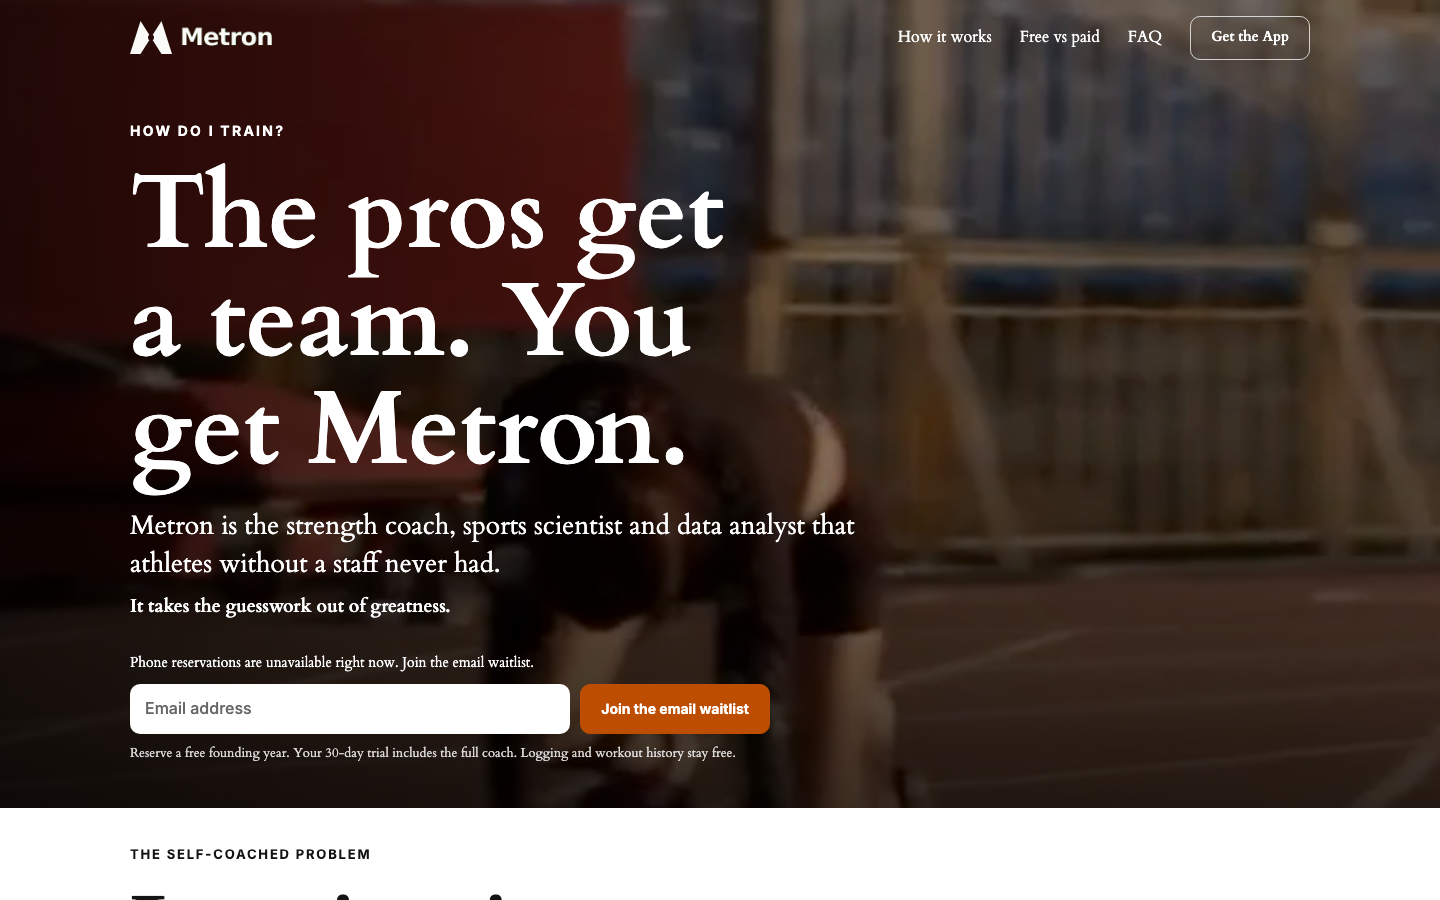
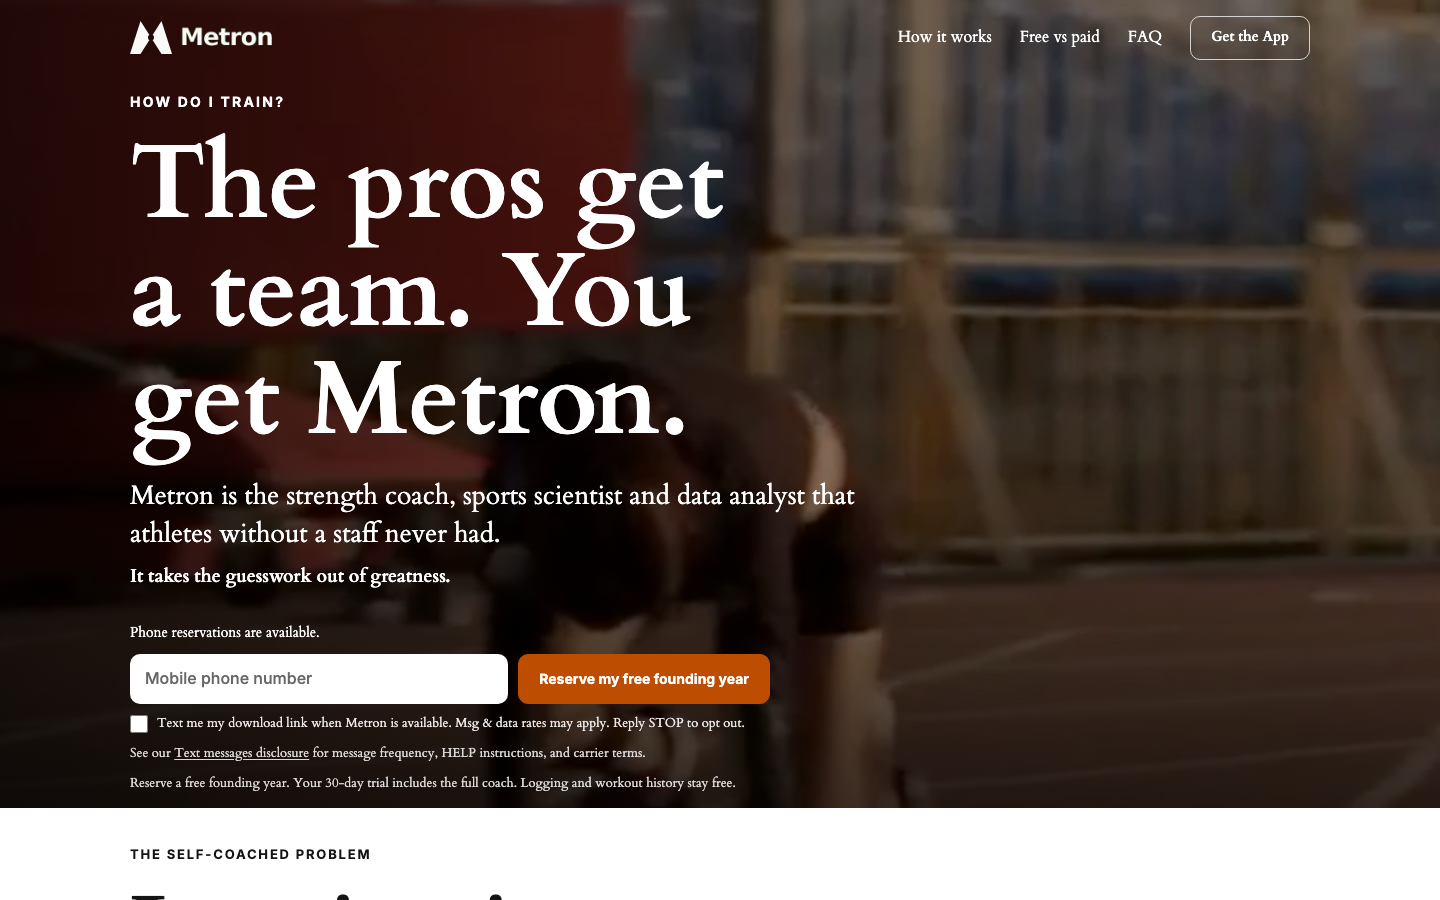
fix(site): unify nav fade timing

Changed region(s): [[0.0938, 0.0933, 0.5938, 0.9022]]

diff --git a/tests/reservation-browser.spec.js b/tests/reservation-browser.spec.js
@@ -132,6 +132,8 @@ test('interpolates the nav across 120px and lets the next section peek into the 
   const darkLogo = page.locator('.nav__lockup--dark');
   await expect(nav).toHaveAttribute('data-scroll-progress', '0.000');
   await expect(nav).toHaveAttribute('data-fade-distance', '120');
+  await expect(nav).toHaveCSS('transition-duration', '0.3s, 0.3s, 0.3s, 0.3s');
+  await expect(nav).toHaveCSS('transition-timing-function', 'linear, linear, linear, linear');
   expect(await nav.evaluate((element) => getComputedStyle(element, '::before').transitionDuration)).toBe('0.3s');
   expect(await nav.evaluate((element) => getComputedStyle(element, '::before').transitionTimingFunction)).toBe('linear');
   await expect(lightLogo).toHaveCSS('transition-duration', '0.3s');
@@ -143,6 +145,7 @@ test('interpolates the nav across 120px and lets the next section peek into the 
   await expect(page.locator('body')).toHaveCSS('font-family', 'Cardo, serif');
   await expect(nav).toHaveCSS('font-family', 'Cardo, serif');
   await expect(page.locator('#hero-title')).toHaveCSS('font-family', 'Cardo, serif');
+  await expect(page.locator('#hero-video')).toHaveCSS('filter', 'brightness(1.25)');
 
   const firstFold = await page.evaluate(() => ({ heroBottom: document.querySelector('.hero').getBoundingClientRect().bottom, problemTop: document.querySelector('#problem').getBoundingClientRect().top, nextLineBottom: document.querySelector('#problem .section__label').getBoundingClientRect().bottom, viewport: innerHeight }));
   expect(firstFold.heroBottom).toBeLessThan(firstFold.viewport);
@@ -163,6 +166,7 @@ test('interpolates the nav across 120px and lets the next section peek into the 
   await expect(page.locator('text=Get the App').first()).toBeVisible();
   const legacyShape = `[class*="hepta${'gon'}"], [id*="hepta${'gon'}"]`;
   expect(await page.locator(legacyShape).count()).toBe(0);
+  expect(await page.locator('[class*="scroll-cue"], [id*="scroll-cue"]').count()).toBe(0);
 });
 
 test('keeps the reservation form usable on a phone viewport', async ({ page }) => {

diff --git a/tests/site-contract.test.js b/tests/site-contract.test.js
@@ -90,6 +90,7 @@ test('keeps the nav and backgrounds within the approved visual system', () => {
   assert.match(html, /window\.scrollY \/ navFadeDistance/);
   assert.match(html, /nav\.style\.setProperty\('--nav-surface-opacity', progress\.toFixed\(3\)\)/);
   assert.match(html, /--nav-fade-duration: 300ms/);
+  assert.match(html, /transition: border-color var\(--nav-fade-duration\) linear, color var\(--nav-fade-duration\) linear/);
   assert.match(html, /\.nav::before \{[\s\S]*?opacity: var\(--nav-surface-opacity\)[\s\S]*?transition: opacity var\(--nav-fade-duration\) linear/);
   assert.match(html, /\.nav__lockup \{ transition: opacity var\(--nav-fade-duration\) linear; \}/);
   assert.doesNotMatch(html, /nav[^\n]*classList\.(?:add|toggle)\([^\n]*(?:scrolled|solid)/i);
@@ -110,6 +111,7 @@ test('keeps the nav and backgrounds within the approved visual system', () => {
     assert.match(html, new RegExp(`<link rel="preload" href="${asset.replaceAll('.', '\\.')}" as="image"`));
   }
   assert.doesNotMatch(html.match(/<nav[\s\S]*?<\/nav>/)[0], /m-cropped(?:-white)?\.png/);
+  assert.doesNotMatch(html, /class="[^"]*scroll-cue|id="[^"]*scroll-cue/i);
 
   assert.match(html, /--hero-brightness: 1\.25/);
   assert.match(html, /\.hero__video \{[^}]*filter: brightness\(var\(--hero-brightness\)\)/);

diff --git a/index.html b/index.html
@@ -71,7 +71,7 @@
             background: transparent; border-bottom: 1px solid var(--nav-border);
             -webkit-backdrop-filter: blur(var(--nav-blur)); backdrop-filter: blur(var(--nav-blur));
             font-family: var(--font-copy);
-            transition: border-color var(--nav-fade-duration) ease, color var(--nav-fade-duration) ease, -webkit-backdrop-filter var(--nav-fade-duration) ease, backdrop-filter var(--nav-fade-duration) ease;
+            transition: border-color var(--nav-fade-duration) linear, color var(--nav-fade-duration) linear, -webkit-backdrop-filter var(--nav-fade-duration) linear, backdrop-filter var(--nav-fade-duration) linear;
         }
         .nav::before {
             content: ''; position: absolute; z-index: -1; inset: 0; opacity: var(--nav-surface-opacity); pointer-events: none;
